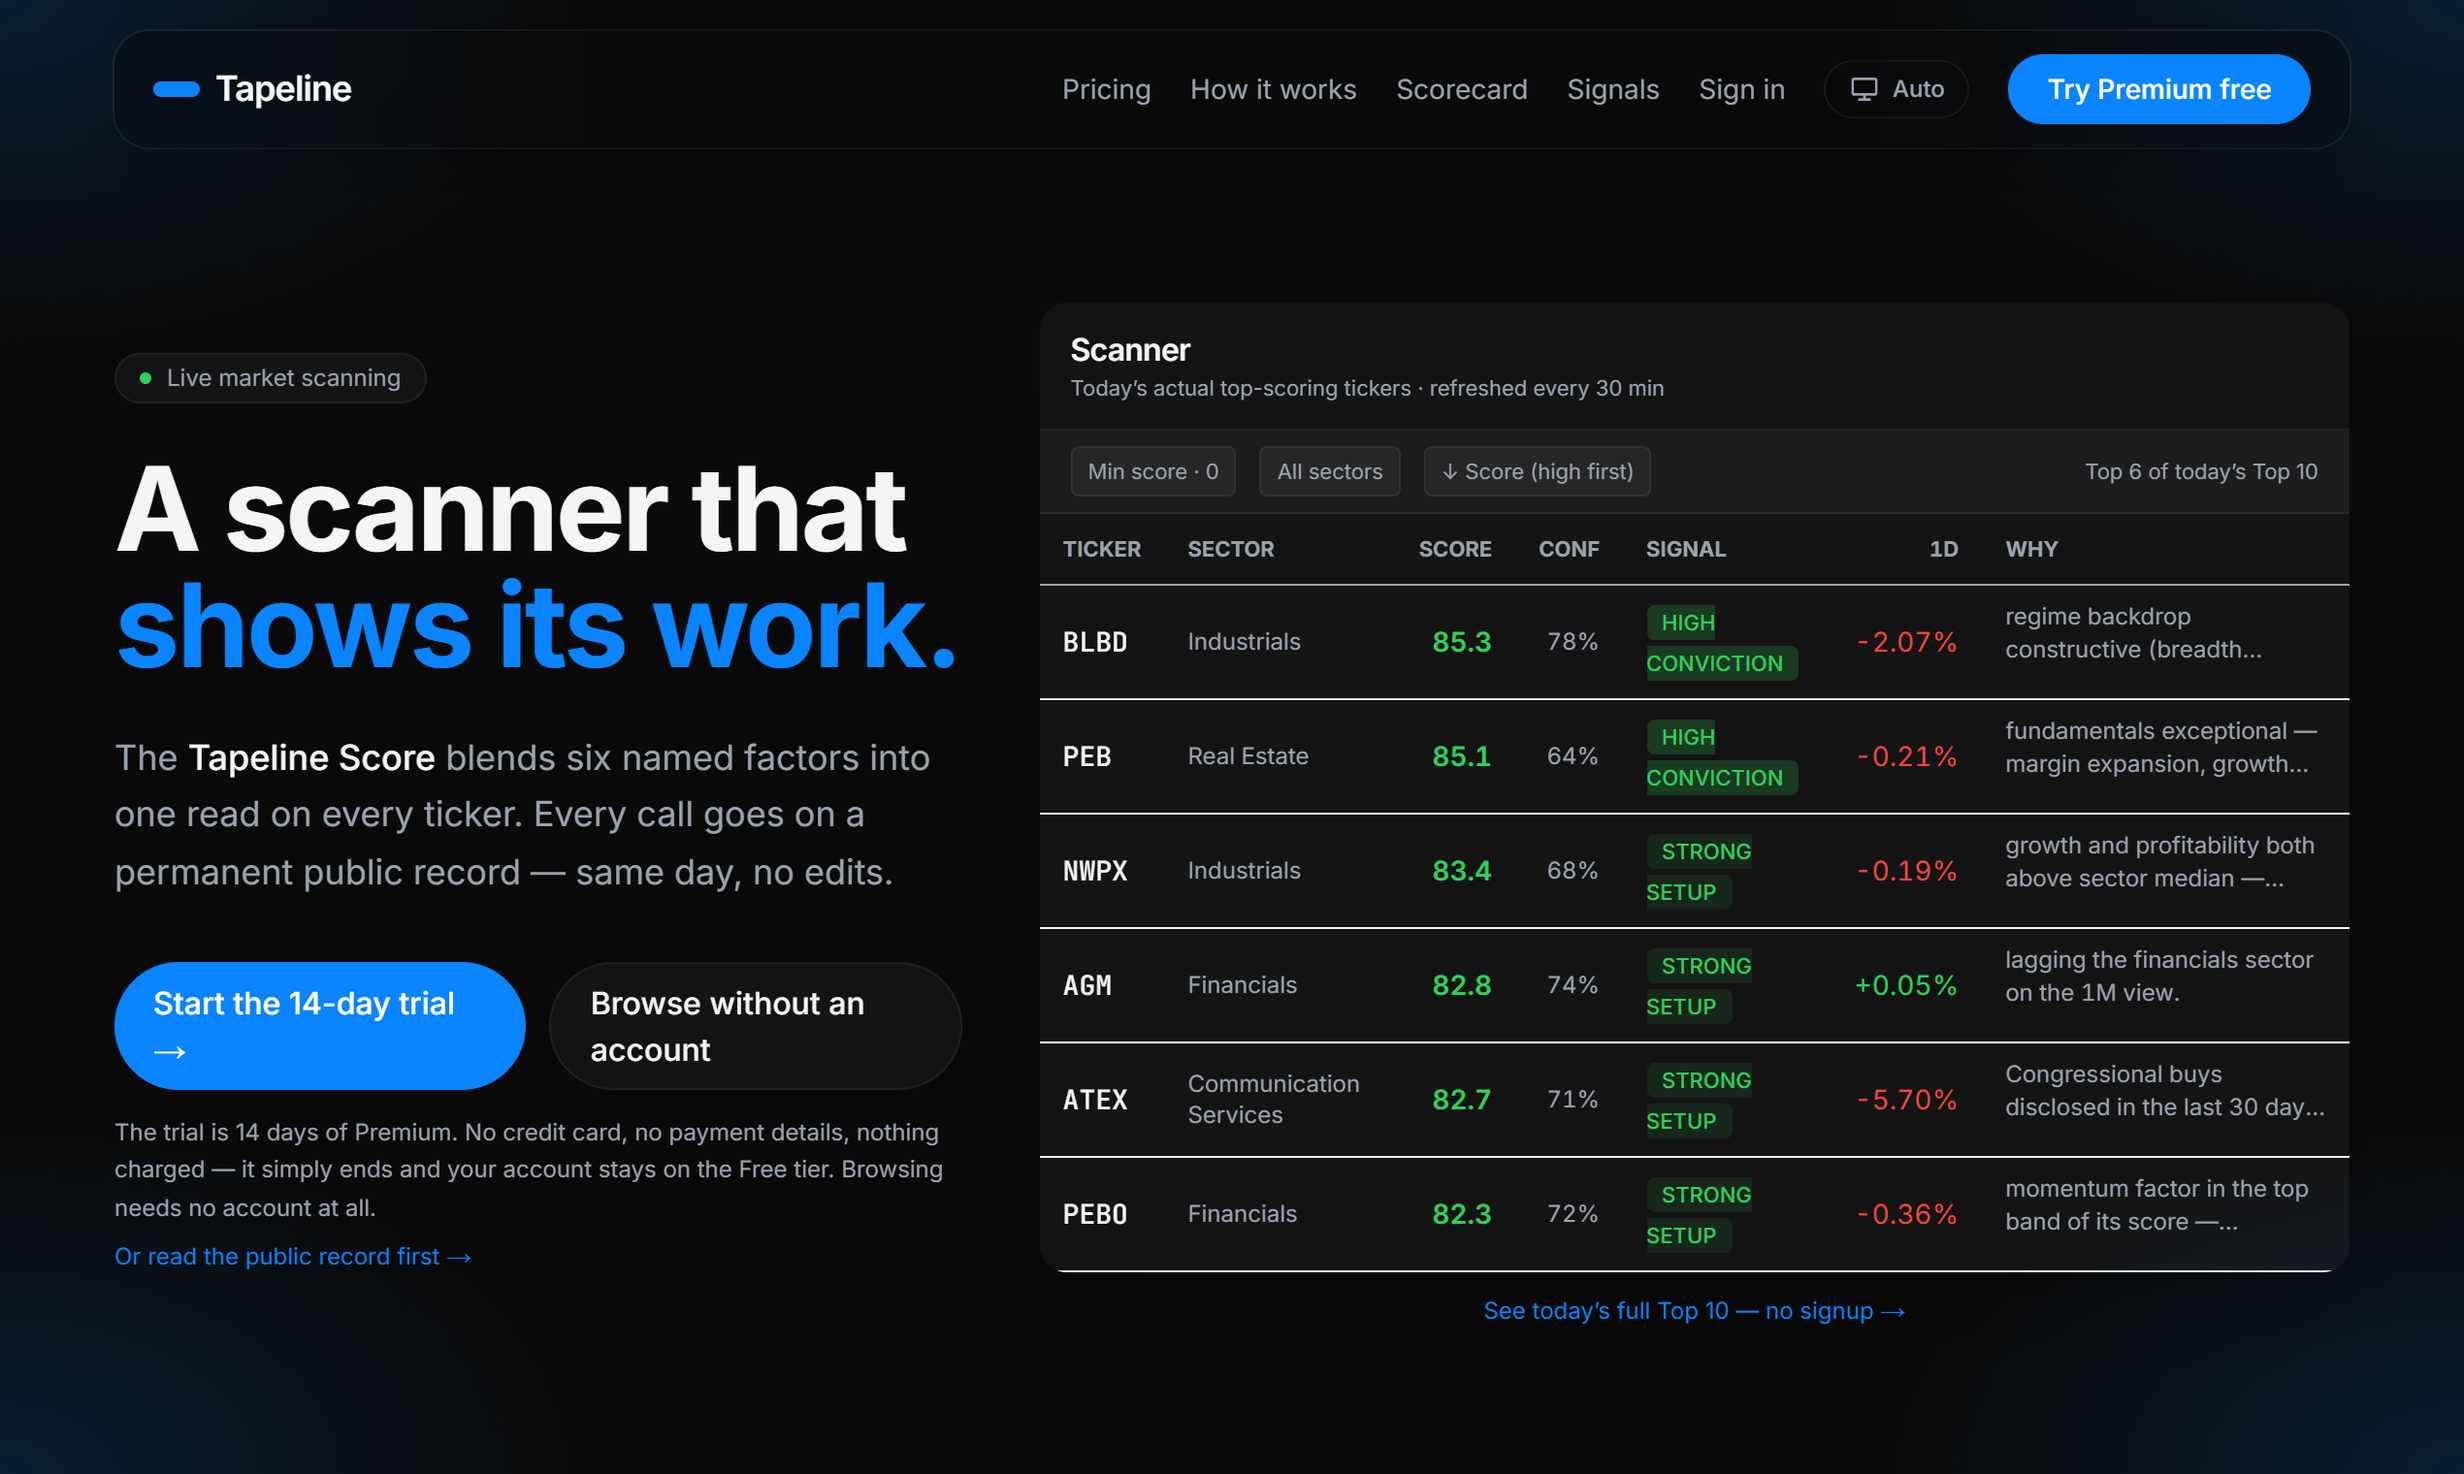
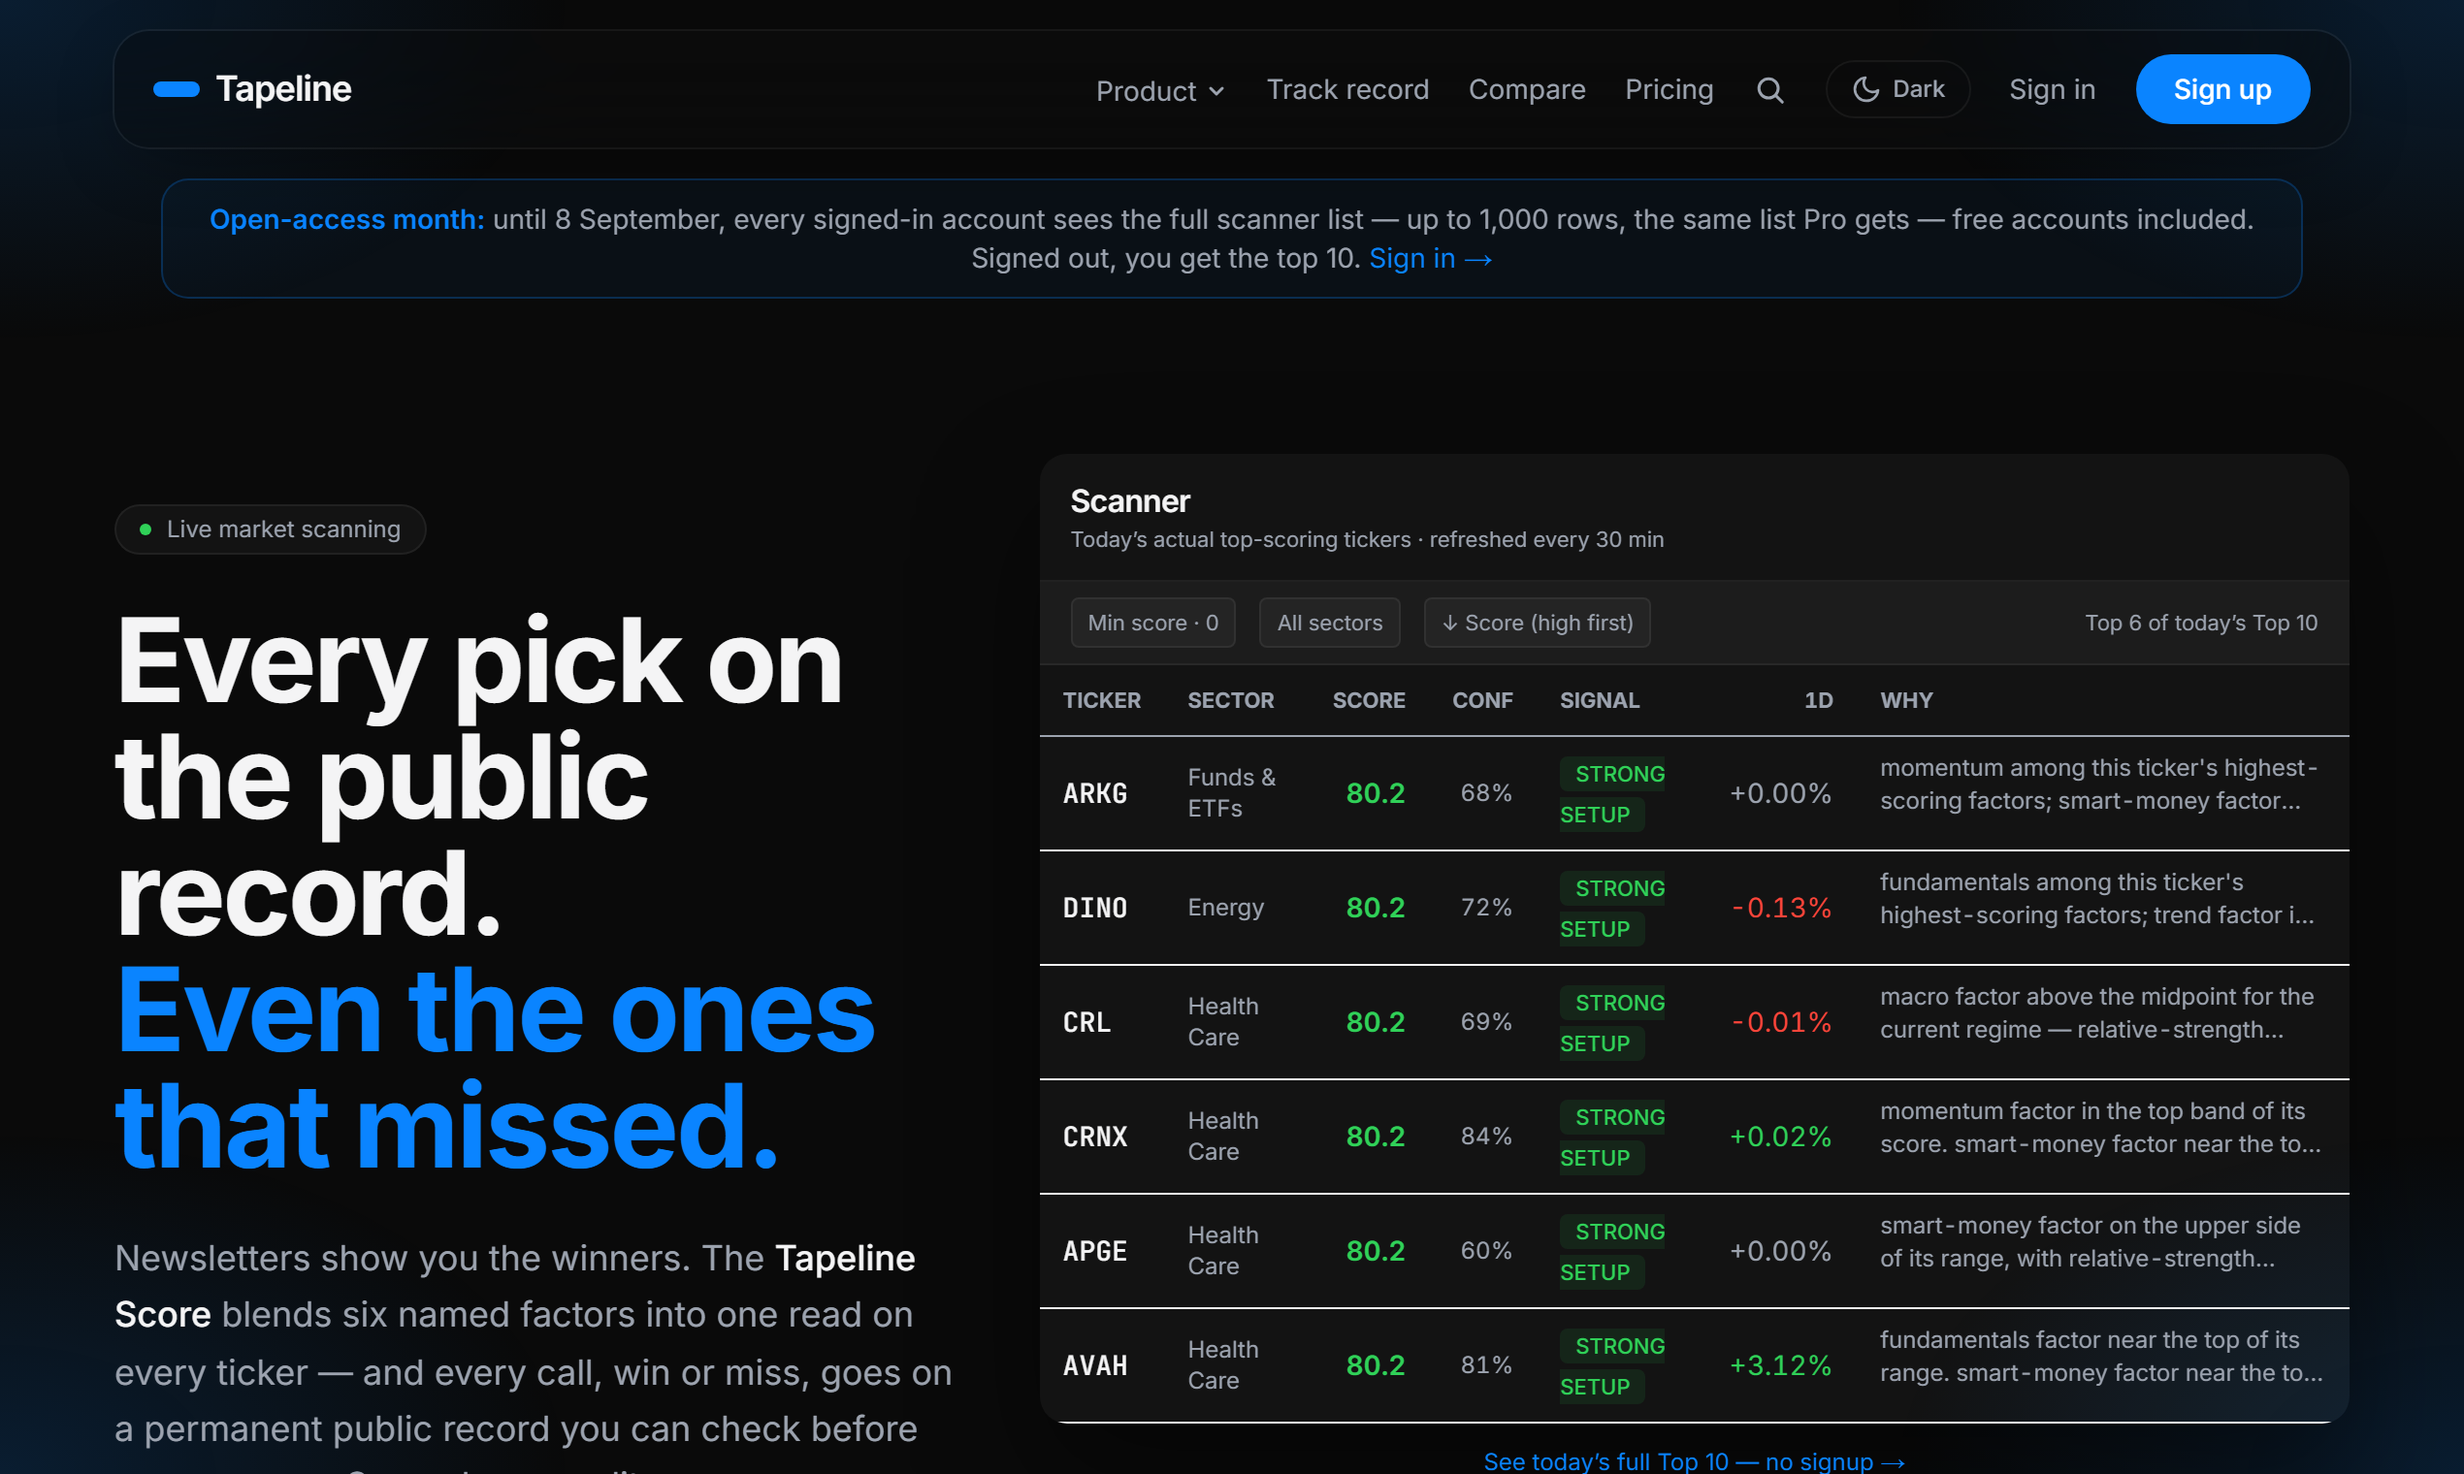
chore(press): re-shoot the four press screenshots from the live site (#623)
The stored PNGs were captured by hand on 2026-08-20 and went stale in the
worst possible way: the 2026-08-22 card gate made their copy false, and the
claims were baked into pixels where no linter, test or grep could see them.

  tapeline-scorecard.png   "Free forever tier — no card"
                           "14-day Premium trial — no card, nothing charged"
                           "Start free — no card"
  tapeline-scanner.png     "The trial is 14 days of Premium. No credit card,
                            no payment details, nothing charged"
  tapeline-verify.png      same batch, same claims
  tapeline-ticker.png      "Try Premium free"

docs/OFFSITE.md points press outreach at these files, so sending one to a
journalist or a directory would have published a false claim about a financial
product.

All four re-shot from production with scripts/capture-press-shots.mjs at the
original 2540x1520, so anything already embedding them is unaffected. The
scorecard shot now carries the true offer — "The published record — free to
read, no account", "14-day Premium trial — $0 today, cancel in one click" —
and the landing shot leads with "Start the 14-day trial".

Two live bugs were found by looking at the shots, and are already fixed and
deployed (#614, #621), so these assets show the corrected pages: the glued
"1,000rows" / "Tapeline Scoreblends" from Next 16's `{expr} word` whitespace
drop, and the ticker radar clipping "Macro" to "lacro" against the viewBox.
[…]

diff --git a/docs/OFFSITE.md b/docs/OFFSITE.md
@@ -16,18 +16,28 @@ This doc is the operational checklist for creating each of those off-site profil
 
 > **Paste-ready copy:** this doc says *where* to create each profile. For the exact field-by-field text to paste (taglines, descriptions, char-counted bios for Product Hunt / Crunchbase / G2 / Capterra / AlternativeTo / StockTwits) plus the launch press + backlink pitch (Show HN, Indie Hackers, cold-email template), see **[BRAND_SERP_KIT.md](./BRAND_SERP_KIT.md)**. All strings there are pulled verbatim from [/press](../frontend/app/press/page.tsx) so the entity stays consistent across every platform.
 
-> ⛔ **DO NOT SEND THE STORED PRESS SCREENSHOTS.** The PNGs in
-> `frontend/public/press/` were captured 2026-08-20 — two days before the card
-> gate (`CARD_GATE_START = 2026-08-22`). Verified false copy is baked into the
-> pixels of `tapeline-scanner.png` ("No credit card, no payment details,
-> nothing charged — it simply ends and your account stays on the Free tier"),
-> `tapeline-scorecard.png` and `tapeline-verify.png` ("Free forever tier — no
-> card", "14-day Premium trial — no card, nothing charged", "Start free — no
-> card"). `tapeline-ticker.png` is from the same pre-gate batch — treat it the
-> same. Uploading any of them to a directory, a journalist or a listing
-> publishes a false claim about a financial product. **Do not delete the
-> files** — re-shoot them from the live site first. Shooting fresh from the
-> `/press` **screenshot kit** links is safe: those point at live URLs.
+> ✅ **Press screenshots — safe to send, and re-shoot them after any copy change.**
+> The four PNGs in `frontend/public/press/` were re-shot from the live site on
+> 2026-08-24 and carry the current terms. The batch they replaced was captured
+> 2026-08-20, two days before the card gate (`CARD_GATE_START = 2026-08-22`),
+> and had "Free forever tier — no card", "14-day Premium trial — no card,
+> nothing charged" and "No credit card, no payment details, nothing charged"
+> baked into the pixels — where no linter, test or grep could see them. Sending
+> one to a journalist or a directory would have published a false claim about a
+> financial product.
+>
+> They are reproducible now, so keep them that way:
+>
+> ```bash
+> cd frontend && node scripts/capture-press-shots.mjs
+> ```
+>
+> It re-shoots all four from production at the original 2540x1520 and REFUSES to
+> write an asset whose page still renders a card-free account or trial claim.
+> Run it after any change to the landing page, /scorecard, /t/[symbol] or
+> /verify. Shooting by hand from the `/press` **screenshot kit** links is also
+> fine — those point at live URLs — but the script is what keeps the stored
+> files honest.
 
 ---
 

diff --git a/docs/GROWTH_RESEARCH_DOSSIER.md b/docs/GROWTH_RESEARCH_DOSSIER.md
@@ -188,12 +188,14 @@ capture · #445 trial-expiry save offer + mid-trial card prompt · #446 scorecar
 SSR for AI crawlers · #447 press kit at /press/* · #448 CORS for press assets ·
 #449 daily growth-bot enabled (weekday funnel email, always-on).
 
-> ⛔ **The stored press images from #447/#448 are not sendable.** The PNGs in
-> `frontend/public/press/` were captured 2026-08-20, two days before the card
-> gate (`CARD_GATE_START = 2026-08-22`), and `tapeline-scanner.png`,
-> `tapeline-scorecard.png` and `tapeline-verify.png` have "no credit card" /
-> "Free forever tier — no card" copy baked into the pixels. Do not delete them
-> — re-shoot from the live site before any outreach uses them. Same warning in
+> ✅ **The stored press images from #447/#448 are sendable again.** The batch
+> captured 2026-08-20 had "no credit card" / "Free forever tier — no card"
+> baked into the pixels, two days before the card gate
+> (`CARD_GATE_START = 2026-08-22`) made that false. All four were re-shot from
+> the live site on 2026-08-24 and are now reproducible with
+> `cd frontend && node scripts/capture-press-shots.mjs`, which refuses to write
+> an asset whose page still renders a card-free account or trial claim. Re-run
+> it after any copy change to those four screens. Detail in
 > [OFFSITE.md](./OFFSITE.md).
 
 **Waiting on the founder (nobody else can):** reply to trialist emails in
